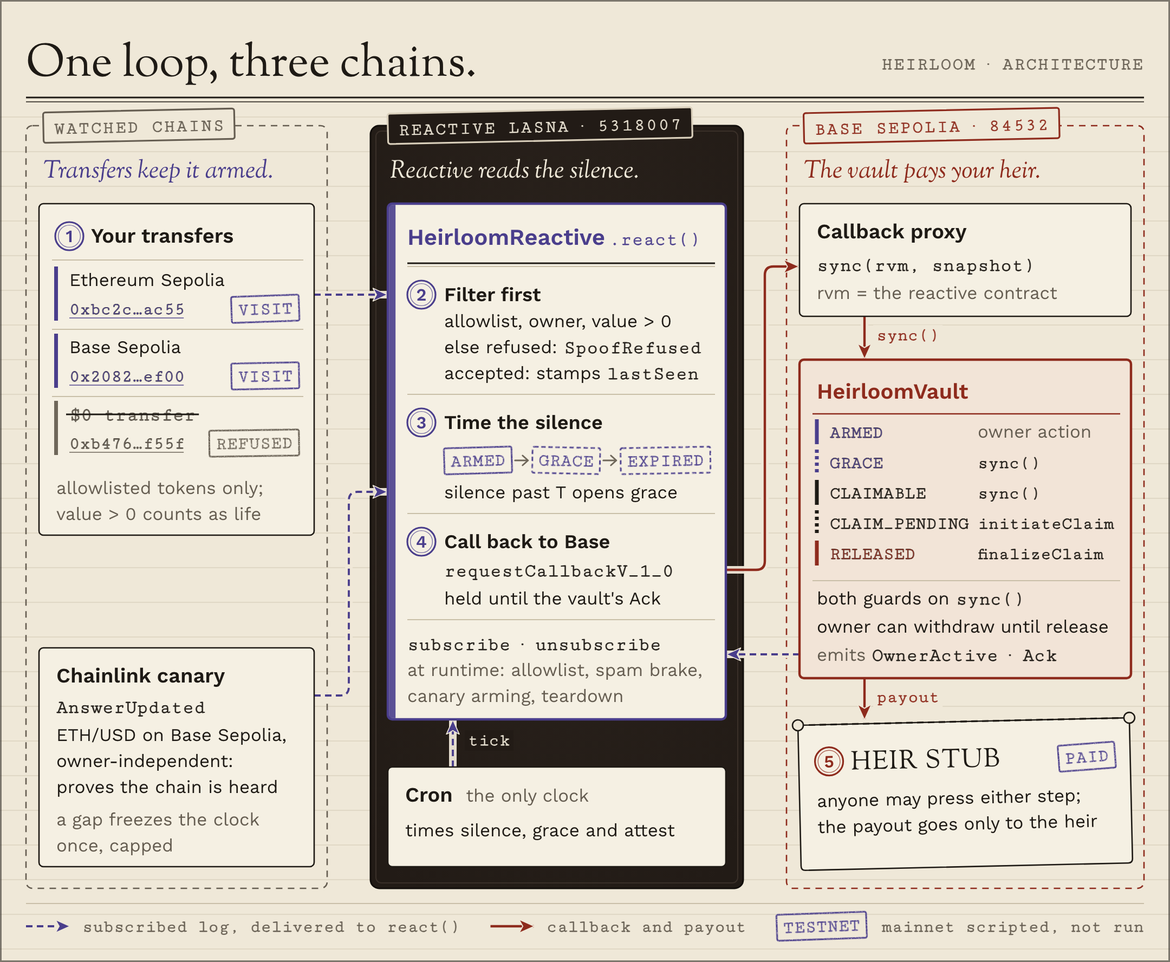
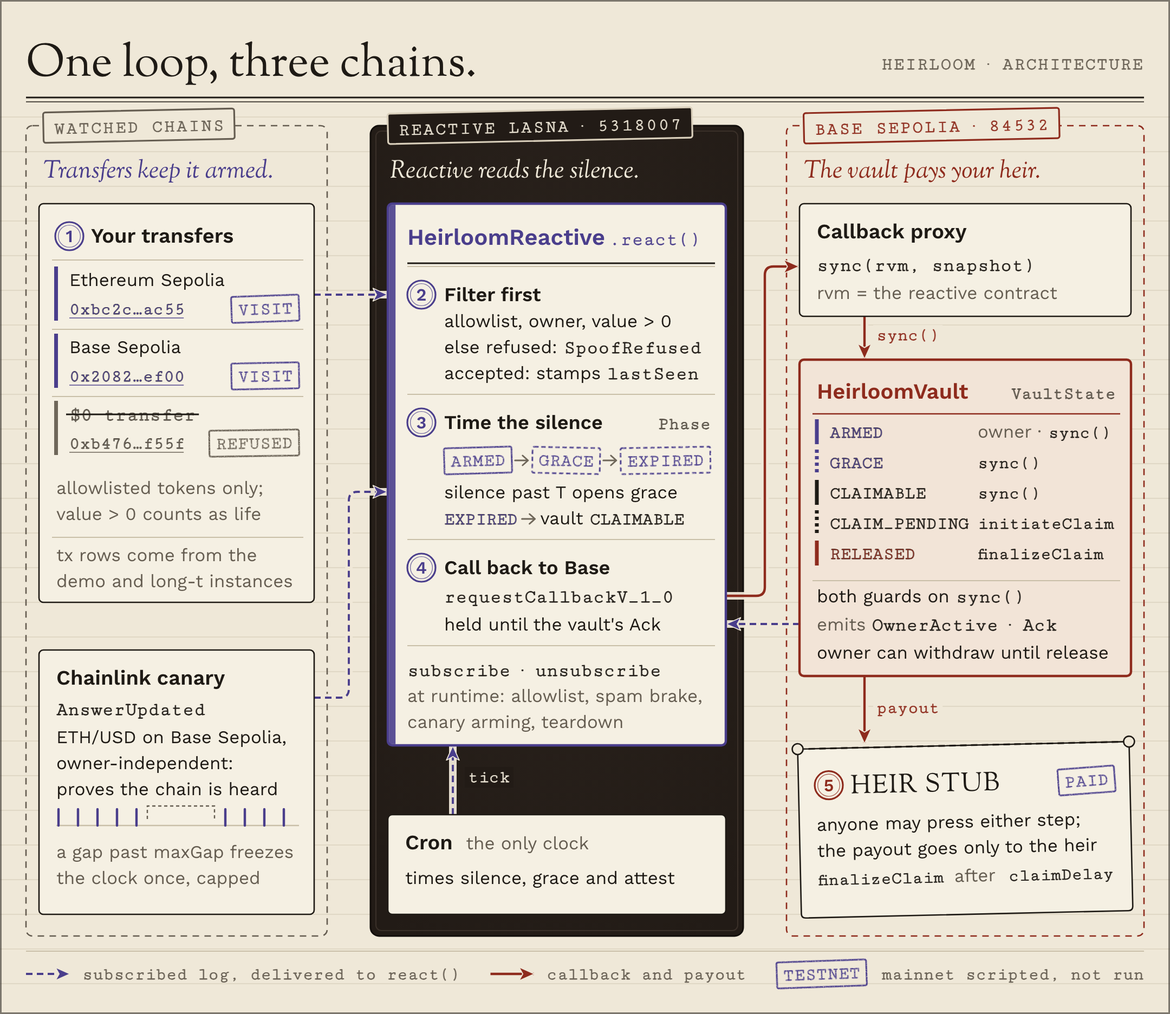
docs(architecture): link the two state vocabularies, aim the Ack arrow at step 4, show claimDelay
From an independent review of the diagram:
- vault ledger ARMED reads "owner · sync()" (sync() also returns the vault
  to ARMED); the <desc> and the README alt say the same
- the dashed return arrow now joins the vault's "emits OwnerActive · Ack"
  line to step 4's "held until the vault's Ack", straight across
- step 3 is labelled Phase and the vault VaultState (the enum names), with
  the mapping EXPIRED -> vault CLAIMABLE
- the heir stub shows "finalizeClaim after claimDelay"
- the transfer rows say they come from the demo and long-t instances; the
  canary card gets a heartbeat strip with one bracketed gap past maxGap
- the Cron tick arrow is longer

PNG re-rendered at 2x (2160x1872) and re-compressed losslessly with
oxipng -o max --strip safe -Z: 775,907 -> 552,112 bytes.

diff --git a/docs/architecture/architecture.html b/docs/architecture/architecture.html
@@ -50,17 +50,17 @@ svg#architecture { width: 100%; min-width: 1080px; height: auto; display: block;
 <body>
 <main>
 <div class="diagram-container">
-<svg id="architecture" viewBox="0 0 1080 888" role="img" aria-labelledby="architecture-title architecture-desc" xmlns="http://www.w3.org/2000/svg">
+<svg id="architecture" viewBox="0 0 1080 936" role="img" aria-labelledby="architecture-title architecture-desc" xmlns="http://www.w3.org/2000/svg">
 <title id="architecture-title">Heirloom architecture: one loop, three chains</title>
-<desc id="architecture-desc">Heirloom's loop across three chains. 1: the owner's allowlisted token transfers on Ethereum Sepolia and Base Sepolia are subscribed logs; a $0 transfer is refused. 2 to 4: on Reactive Lasna, HeirloomReactive.react() filters first (SpoofRefused), stamps lastSeen, times the silence on Cron ticks through ARMED, GRACE and EXPIRED, with a Chainlink canary that can freeze the clock once, and calls back to Base with requestCallbackV_1_0. On Base Sepolia the callback proxy calls sync(rvm, snapshot) on HeirloomVault, whose states run ARMED, GRACE, CLAIMABLE (both by sync), CLAIM_PENDING (initiateClaim) and RELEASED (finalizeClaim); the vault emits OwnerActive and Ack back to react(). 5: the heir stub, where anyone may press either claim step and the payout goes only to the heir.</desc>
+<desc id="architecture-desc">Heirloom's loop across three chains. 1: the owner's allowlisted token transfers on Ethereum Sepolia and Base Sepolia are subscribed logs; a stranger's $0 transfer is refused (example transactions from the demo and long-t instances). 2 to 4: on Reactive Lasna, HeirloomReactive.react() filters first (SpoofRefused), stamps lastSeen, times the silence on Cron ticks through the Phase values ARMED, GRACE and EXPIRED (EXPIRED makes the vault CLAIMABLE), with a Chainlink canary whose gap past maxGap freezes the clock once, and calls back to Base with requestCallbackV_1_0, held until the vault's Ack. On Base Sepolia the callback proxy calls sync(rvm, snapshot) on HeirloomVault, whose VaultState returns to ARMED on an owner action or sync(), moves to GRACE and CLAIMABLE by sync(), CLAIM_PENDING by initiateClaim and RELEASED by finalizeClaim after claimDelay; the vault emits OwnerActive and Ack back to react(). 5: the heir stub, where anyone may press either claim step and the payout goes only to the heir.</desc>
 <defs><marker id="m-log" viewBox="0 0 10 10" refX="9" refY="5" markerWidth="7.5" markerHeight="7.5" orient="auto-start-reverse"><path d="M0 0.8 L9.4 5 L0 9.2 L2.4 5z" fill="#4A3E8C" stroke="#EFE8D8" stroke-width=".6"/></marker><marker id="m-call" viewBox="0 0 10 10" refX="9" refY="5" markerWidth="7" markerHeight="7" orient="auto-start-reverse"><path d="M0 0.8 L9.4 5 L0 9.2 L2.4 5z" fill="#8E2B1D" stroke="#EFE8D8" stroke-width=".6"/></marker><filter id="ink" x="-4%" y="-25%" width="108%" height="150%" color-interpolation-filters="sRGB"><feTurbulence type="fractalNoise" baseFrequency="1.1" numOctaves="2" seed="11" result="n"/><feColorMatrix in="n" type="matrix" values="0 0 0 0 0  0 0 0 0 0  0 0 0 0 0  -3.4 0 0 0 2.85" result="m"/><feComposite in="SourceGraphic" in2="m" operator="in"/></filter><radialGradient id="drawer" cx="50%" cy="38%" r="75%"><stop offset="0" stop-color="#2B231D"/><stop offset="1" stop-color="#221B16"/></radialGradient></defs>
-<rect width="1080" height="888" fill="#EFE8D8"/>
-<g aria-hidden="true"><path d="M0 108 H1080" stroke="#C9BFA8" stroke-width="1" opacity=".38"/><path d="M0 140 H1080" stroke="#C9BFA8" stroke-width="1" opacity=".38"/><path d="M0 172 H1080" stroke="#C9BFA8" stroke-width="1" opacity=".38"/><path d="M0 204 H1080" stroke="#C9BFA8" stroke-width="1" opacity=".38"/><path d="M0 236 H1080" stroke="#C9BFA8" stroke-width="1" opacity=".38"/><path d="M0 268 H1080" stroke="#C9BFA8" stroke-width="1" opacity=".38"/><path d="M0 300 H1080" stroke="#C9BFA8" stroke-width="1" opacity=".38"/><path d="M0 332 H1080" stroke="#C9BFA8" stroke-width="1" opacity=".38"/><path d="M0 364 H1080" stroke="#C9BFA8" stroke-width="1" opacity=".38"/><path d="M0 396 H1080" stroke="#C9BFA8" stroke-width="1" opacity=".38"/><path d="M0 428 H1080" stroke="#C9BFA8" stroke-width="1" opacity=".38"/><path d="M0 460 H1080" stroke="#C9BFA8" stroke-width="1" opacity=".38"/><path d="M0 492 H1080" stroke="#C9BFA8" stroke-width="1" opacity=".38"/><path d="M0 524 H1080" stroke="#C9BFA8" stroke-width="1" opacity=".38"/><path d="M0 556 H1080" stroke="#C9BFA8" stroke-width="1" opacity=".38"/><path d="M0 588 H1080" stroke="#C9BFA8" stroke-width="1" opacity=".38"/><path d="M0 620 H1080" stroke="#C9BFA8" stroke-width="1" opacity=".38"/><path d="M0 652 H1080" stroke="#C9BFA8" stroke-width="1" opacity=".38"/><path d="M0 684 H1080" stroke="#C9BFA8" stroke-width="1" opacity=".38"/><path d="M0 716 H1080" stroke="#C9BFA8" stroke-width="1" opacity=".38"/><path d="M0 748 H1080" stroke="#C9BFA8" stroke-width="1" opacity=".38"/><path d="M0 780 H1080" stroke="#C9BFA8" stroke-width="1" opacity=".38"/><path d="M0 812 H1080" stroke="#C9BFA8" stroke-width="1" opacity=".38"/><path d="M0 844 H1080" stroke="#C9BFA8" stroke-width="1" opacity=".38"/><path d="M0 876 H1080" stroke="#C9BFA8" stroke-width="1" opacity=".38"/></g>
+<rect width="1080" height="936" fill="#EFE8D8"/>
+<g aria-hidden="true"><path d="M0 108 H1080" stroke="#C9BFA8" stroke-width="1" opacity=".38"/><path d="M0 140 H1080" stroke="#C9BFA8" stroke-width="1" opacity=".38"/><path d="M0 172 H1080" stroke="#C9BFA8" stroke-width="1" opacity=".38"/><path d="M0 204 H1080" stroke="#C9BFA8" stroke-width="1" opacity=".38"/><path d="M0 236 H1080" stroke="#C9BFA8" stroke-width="1" opacity=".38"/><path d="M0 268 H1080" stroke="#C9BFA8" stroke-width="1" opacity=".38"/><path d="M0 300 H1080" stroke="#C9BFA8" stroke-width="1" opacity=".38"/><path d="M0 332 H1080" stroke="#C9BFA8" stroke-width="1" opacity=".38"/><path d="M0 364 H1080" stroke="#C9BFA8" stroke-width="1" opacity=".38"/><path d="M0 396 H1080" stroke="#C9BFA8" stroke-width="1" opacity=".38"/><path d="M0 428 H1080" stroke="#C9BFA8" stroke-width="1" opacity=".38"/><path d="M0 460 H1080" stroke="#C9BFA8" stroke-width="1" opacity=".38"/><path d="M0 492 H1080" stroke="#C9BFA8" stroke-width="1" opacity=".38"/><path d="M0 524 H1080" stroke="#C9BFA8" stroke-width="1" opacity=".38"/><path d="M0 556 H1080" stroke="#C9BFA8" stroke-width="1" opacity=".38"/><path d="M0 588 H1080" stroke="#C9BFA8" stroke-width="1" opacity=".38"/><path d="M0 620 H1080" stroke="#C9BFA8" stroke-width="1" opacity=".38"/><path d="M0 652 H1080" stroke="#C9BFA8" stroke-width="1" opacity=".38"/><path d="M0 684 H1080" stroke="#C9BFA8" stroke-width="1" opacity=".38"/><path d="M0 716 H1080" stroke="#C9BFA8" stroke-width="1" opacity=".38"/><path d="M0 748 H1080" stroke="#C9BFA8" stroke-width="1" opacity=".38"/><path d="M0 780 H1080" stroke="#C9BFA8" stroke-width="1" opacity=".38"/><path d="M0 812 H1080" stroke="#C9BFA8" stroke-width="1" opacity=".38"/><path d="M0 844 H1080" stroke="#C9BFA8" stroke-width="1" opacity=".38"/><path d="M0 876 H1080" stroke="#C9BFA8" stroke-width="1" opacity=".38"/><path d="M0 908 H1080" stroke="#C9BFA8" stroke-width="1" opacity=".38"/></g>
 <!-- zones: three chains -->
-<rect x="24" y="116" width="278" height="704" rx="6" fill="none" stroke="#655D51" stroke-width="1.3" stroke-dasharray="6 5"/>
-<rect x="726" y="116" width="330" height="704" rx="6" fill="none" stroke="#8E2B1D" stroke-width="1.3" stroke-dasharray="6 5"/>
-<rect x="342" y="116" width="344" height="704" rx="8" fill="url(#drawer)" stroke="#120E0B" stroke-width="1.5"/>
-<rect x="347" y="121" width="334" height="694" rx="5" fill="none" stroke="#3A3029" stroke-width="1"/>
+<rect x="24" y="116" width="278" height="748" rx="6" fill="none" stroke="#655D51" stroke-width="1.3" stroke-dasharray="6 5"/>
+<rect x="726" y="116" width="330" height="748" rx="6" fill="none" stroke="#8E2B1D" stroke-width="1.3" stroke-dasharray="6 5"/>
+<rect x="342" y="116" width="344" height="748" rx="8" fill="url(#drawer)" stroke="#120E0B" stroke-width="1.5"/>
+<rect x="347" y="121" width="334" height="738" rx="5" fill="none" stroke="#3A3029" stroke-width="1"/>
 <g transform="rotate(-1.2 128.2 116)"><rect x="40" y="102" width="176.4" height="28" rx="2" fill="#EFE8D8" stroke="#655D51" stroke-width="1.6"/>
 <text class="tag" x="50.0" y="122.0" fill="#655D51" stroke="#655D51">WATCHED CHAINS</text>
 </g>
@@ -75,28 +75,28 @@ svg#architecture { width: 100%; min-width: 1080px; height: auto; display: block;
 <text class="cap" x="742.0" y="164.0" fill="#8E2B1D">The vault pays your heir.</text>
 <!-- connectors (drawn before the nodes) -->
 <path d="M290 272.0 H357" fill="none" stroke="#EFE8D8" stroke-width="7" stroke-linejoin="round" opacity=".95"/>
-<path d="M290 642.0 H314.0 Q322.0 642.0 322.0 634.0 V462.0 Q322.0 454.0 330.0 454.0 H357" fill="none" stroke="#EFE8D8" stroke-width="7" stroke-linejoin="round" opacity=".95"/>
-<path d="M418 708 V665" fill="none" stroke="#EFE8D8" stroke-width="7" stroke-linejoin="round" opacity=".95"/>
-<path d="M670 526.0 H698.0 Q706.0 526.0 706.0 518.0 V254.0 Q706.0 246.0 714.0 246.0 H737" fill="none" stroke="#EFE8D8" stroke-width="7" stroke-linejoin="round" opacity=".95"/>
+<path d="M290 644.0 H314.0 Q322.0 644.0 322.0 636.0 V462.0 Q322.0 454.0 330.0 454.0 H357" fill="none" stroke="#EFE8D8" stroke-width="7" stroke-linejoin="round" opacity=".95"/>
+<path d="M418 752 V689" fill="none" stroke="#EFE8D8" stroke-width="7" stroke-linejoin="round" opacity=".95"/>
+<path d="M670 550.0 H698.0 Q706.0 550.0 706.0 542.0 V254.0 Q706.0 246.0 714.0 246.0 H737" fill="none" stroke="#EFE8D8" stroke-width="7" stroke-linejoin="round" opacity=".95"/>
 <path d="M798 292 V331" fill="none" stroke="#EFE8D8" stroke-width="7" stroke-linejoin="round" opacity=".95"/>
-<path d="M738 604.0 H671" fill="none" stroke="#EFE8D8" stroke-width="7" stroke-linejoin="round" opacity=".95"/>
-<path d="M798 626 V664" fill="none" stroke="#EFE8D8" stroke-width="7" stroke-linejoin="round" opacity=".95"/>
+<path d="M738 576.0 H671" fill="none" stroke="#EFE8D8" stroke-width="7" stroke-linejoin="round" opacity=".95"/>
+<path d="M798 624 V686" fill="none" stroke="#EFE8D8" stroke-width="7" stroke-linejoin="round" opacity=".95"/>
 <path d="M290 272.0 H357" fill="none" stroke="#4A3E8C" stroke-width="1.9" stroke-dasharray="6 4" marker-end="url(#m-log)"/>
-<path d="M290 642.0 H314.0 Q322.0 642.0 322.0 634.0 V462.0 Q322.0 454.0 330.0 454.0 H357" fill="none" stroke="#4A3E8C" stroke-width="1.9" stroke-dasharray="6 4" marker-end="url(#m-log)"/>
-<path d="M418 708 V665" fill="none" stroke="#4A3E8C" stroke-width="1.9" stroke-dasharray="6 4" marker-end="url(#m-log)"/>
-<path d="M670 526.0 H698.0 Q706.0 526.0 706.0 518.0 V254.0 Q706.0 246.0 714.0 246.0 H737" fill="none" stroke="#8E2B1D" stroke-width="2.2" marker-end="url(#m-call)"/>
+<path d="M290 644.0 H314.0 Q322.0 644.0 322.0 636.0 V462.0 Q322.0 454.0 330.0 454.0 H357" fill="none" stroke="#4A3E8C" stroke-width="1.9" stroke-dasharray="6 4" marker-end="url(#m-log)"/>
+<path d="M418 752 V689" fill="none" stroke="#4A3E8C" stroke-width="1.9" stroke-dasharray="6 4" marker-end="url(#m-log)"/>
+<path d="M670 550.0 H698.0 Q706.0 550.0 706.0 542.0 V254.0 Q706.0 246.0 714.0 246.0 H737" fill="none" stroke="#8E2B1D" stroke-width="2.2" marker-end="url(#m-call)"/>
 <path d="M798 292 V331" fill="none" stroke="#8E2B1D" stroke-width="2.2" marker-end="url(#m-call)"/>
-<path d="M738 604.0 H671" fill="none" stroke="#4A3E8C" stroke-width="1.9" stroke-dasharray="6 4" marker-end="url(#m-log)"/>
-<path d="M798 626 V664" fill="none" stroke="#8E2B1D" stroke-width="2.2" marker-end="url(#m-call)"/>
+<path d="M738 576.0 H671" fill="none" stroke="#4A3E8C" stroke-width="1.9" stroke-dasharray="6 4" marker-end="url(#m-log)"/>
+<path d="M798 624 V686" fill="none" stroke="#8E2B1D" stroke-width="2.2" marker-end="url(#m-call)"/>
 <rect x="806.0" y="300.0" width="64.1" height="19" fill="#EFE8D8"/>
 <text class="lab" x="809.0" y="314.0" fill="#8E2B1D" stroke="#8E2B1D">sync()</text>
-<rect x="806.0" y="634.0" width="64.1" height="19" fill="#EFE8D8"/>
-<text class="lab" x="809.0" y="648.0" fill="#8E2B1D" stroke="#8E2B1D">payout</text>
-<rect x="429.0" y="674.0" width="44.8" height="19" fill="#221B16"/>
-<text class="lab" x="432.0" y="688.0" fill="#EFE8D8" stroke="#EFE8D8">tick</text>
+<rect x="806.0" y="644.0" width="64.1" height="19" fill="#EFE8D8"/>
+<text class="lab" x="809.0" y="658.0" fill="#8E2B1D" stroke="#8E2B1D">payout</text>
+<rect x="429.0" y="708.0" width="44.8" height="19" fill="#221B16"/>
+<text class="lab" x="432.0" y="722.0" fill="#EFE8D8" stroke="#EFE8D8">tick</text>
 <!-- nodes -->
-<rect x="358" y="188" width="312" height="476" rx="4" fill="#F5F0E3" stroke="#4A3E8C" stroke-width="2.2"/>
-<rect x="359.1" y="189.1" width="6" height="473.8" fill="#4A3E8C" opacity=".9"/>
+<rect x="358" y="188" width="312" height="500" rx="4" fill="#F5F0E3" stroke="#4A3E8C" stroke-width="2.2"/>
+<rect x="359.1" y="189.1" width="6" height="497.8" fill="#4A3E8C" opacity=".9"/>
 <text class="ti rc" x="376.0" y="226.0" fill="#1E1A15">HeirloomReactive</text>
 <text class="c v" x="562.1" y="226.0" fill="#1E1A15">.react()</text>
 <path d="M376 243.0 H660" stroke="#1E1A15" stroke-width="1.4"/>
@@ -113,6 +113,7 @@ svg#architecture { width: 100%; min-width: 1080px; height: auto; display: block;
 <circle cx="389" cy="390" r="13" fill="#F5F0E3" stroke="#4A3E8C" stroke-width="1.6"/><circle cx="389" cy="390" r="10.2" fill="none" stroke="#4A3E8C" stroke-width=".7" opacity=".7"/>
 <text class="bd" x="384.3" y="395.6" fill="#4A3E8C">3</text>
 <text class="st" x="410.0" y="396.0" fill="#1E1A15">Time the silence</text>
+<text class="c s2" x="607.6" y="396.0" fill="#655D51" stroke="#655D51">Phase</text>
 <g transform="rotate(-1.6 441.2 424.5)" filter="url(#ink)"><rect x="410.0" y="413.0" width="62.4" height="24" rx="1.5" fill="none" stroke="#4A3E8C" stroke-width="1.5"/>
 <text class="stp" x="416.0" y="430.0" fill="#4A3E8C" stroke="#4A3E8C">ARMED</text>
 </g>
@@ -125,21 +126,25 @@ svg#architecture { width: 100%; min-width: 1080px; height: auto; display: block;
 <text class="stp" x="578.9" y="430.0" fill="#4A3E8C" stroke="#4A3E8C">EXPIRED</text>
 </g>
 <text class="b" x="410.0" y="460.0" fill="#1E1A15">silence past T opens grace</text>
-<path d="M376 474.0 H660" stroke="#C9BFA8" stroke-width="1"/>
-<circle cx="389" cy="500" r="13" fill="#F5F0E3" stroke="#4A3E8C" stroke-width="1.6"/><circle cx="389" cy="500" r="10.2" fill="none" stroke="#4A3E8C" stroke-width=".7" opacity=".7"/>
-<text class="bd" x="383.9" y="505.6" fill="#4A3E8C">4</text>
-<text class="st" x="410.0" y="506.0" fill="#1E1A15">Call back to Base</text>
-<text class="c" x="410.0" y="532.0" fill="#1E1A15">requestCallbackV_1_0</text>
-<text class="b" x="410.0" y="558.0" fill="#1E1A15">held until the vault's Ack</text>
-<path d="M376 572.0 H660" stroke="#C9BFA8" stroke-width="1"/>
-<text class="c" x="376.0" y="600.0" fill="#1E1A15">subscribe · unsubscribe</text>
-<text class="b m" x="376.0" y="624.0" fill="#1E1A15">at runtime: allowlist, spam brake,</text>
-<text class="b m" x="376.0" y="648.0" fill="#1E1A15">canary arming, teardown</text>
-<rect x="358" y="708" width="312" height="92" rx="4" fill="#F5F0E3" stroke="#1E1A15" stroke-width="1.3"/>
-<text class="ti" x="374.0" y="740.0" fill="#1E1A15">Cron</text>
-<text class="b m" x="430.1" y="740.0" fill="#1E1A15">the only clock</text>
-<text class="b" x="374.0" y="772.0" fill="#1E1A15">times silence, grace and attest</text>
-<rect x="36" y="188" width="254" height="306" rx="4" fill="#F5F0E3" stroke="#1E1A15" stroke-width="1.3"/>
+<text class="c s2" x="410.0" y="484.0" fill="#4A3E8C" stroke="#4A3E8C">EXPIRED</text>
+<path d="M481.8 479.0 H493.8 M488.8 474.5 L493.8 479.0 L488.8 483.5" fill="none" stroke="#6F675A" stroke-width="1.5" stroke-linecap="round" stroke-linejoin="round"/>
+<text class="b" x="498.8" y="484.0" fill="#1E1A15">vault </text>
+<text class="c s2" x="544.5" y="484.0" fill="#1E1A15">CLAIMABLE</text>
+<path d="M376 498.0 H660" stroke="#C9BFA8" stroke-width="1"/>
+<circle cx="389" cy="524" r="13" fill="#F5F0E3" stroke="#4A3E8C" stroke-width="1.6"/><circle cx="389" cy="524" r="10.2" fill="none" stroke="#4A3E8C" stroke-width=".7" opacity=".7"/>
+<text class="bd" x="383.9" y="529.6" fill="#4A3E8C">4</text>
+<text class="st" x="410.0" y="530.0" fill="#1E1A15">Call back to Base</text>
+<text class="c" x="410.0" y="556.0" fill="#1E1A15">requestCallbackV_1_0</text>
+<text class="b" x="410.0" y="582.0" fill="#1E1A15">held until the vault's Ack</text>
+<path d="M376 596.0 H660" stroke="#C9BFA8" stroke-width="1"/>
+<text class="c" x="376.0" y="624.0" fill="#1E1A15">subscribe · unsubscribe</text>
+<text class="b m" x="376.0" y="648.0" fill="#1E1A15">at runtime: allowlist, spam brake,</text>
+<text class="b m" x="376.0" y="672.0" fill="#1E1A15">canary arming, teardown</text>
+<rect x="358" y="752" width="312" height="92" rx="4" fill="#F5F0E3" stroke="#1E1A15" stroke-width="1.3"/>
+<text class="ti" x="374.0" y="784.0" fill="#1E1A15">Cron</text>
+<text class="b m" x="430.1" y="784.0" fill="#1E1A15">the only clock</text>
+<text class="b" x="374.0" y="816.0" fill="#1E1A15">times silence, grace and attest</text>
+<rect x="36" y="188" width="254" height="368" rx="4" fill="#F5F0E3" stroke="#1E1A15" stroke-width="1.3"/>
 <circle cx="64" cy="218" r="13" fill="#F5F0E3" stroke="#4A3E8C" stroke-width="1.6"/><circle cx="64" cy="218" r="10.2" fill="none" stroke="#4A3E8C" stroke-width=".7" opacity=".7"/>
 <text class="bd" x="60.7" y="223.6" fill="#4A3E8C">1</text>
 <text class="ti" x="84.0" y="224.0" fill="#1E1A15">Your transfers</text>
@@ -170,24 +175,40 @@ svg#architecture { width: 100%; min-width: 1080px; height: auto; display: block;
 </g>
 <text class="b m" x="52.0" y="456.0" fill="#1E1A15">allowlisted tokens only;</text>
 <text class="b m" x="52.0" y="480.0" fill="#1E1A15">value &gt; 0 counts as life</text>
-<rect x="36" y="598" width="254" height="202" rx="4" fill="#F5F0E3" stroke="#1E1A15" stroke-width="1.3"/>
-<text class="ti" x="52.0" y="630.0" fill="#1E1A15">Chainlink canary</text>
-<text class="c" x="52.0" y="658.0" fill="#1E1A15">AnswerUpdated</text>
-<text class="b" x="52.0" y="684.0" fill="#1E1A15">ETH/USD on Base Sepolia,</text>
-<text class="b" x="52.0" y="708.0" fill="#1E1A15">owner-independent:</text>
-<text class="b" x="52.0" y="732.0" fill="#1E1A15">proves the chain is heard</text>
-<text class="b m" x="52.0" y="762.0" fill="#1E1A15">a gap freezes the clock</text>
-<text class="b m" x="52.0" y="786.0" fill="#1E1A15">once, capped</text>
+<path d="M48 496.0 H280" stroke="#C9BFA8" stroke-width="1"/>
+<text class="b m" x="52.0" y="518.0" fill="#1E1A15">tx rows come from the</text>
+<text class="b m" x="52.0" y="542.0" fill="#1E1A15">demo and long-t instances</text>
+<rect x="36" y="600" width="254" height="244" rx="4" fill="#F5F0E3" stroke="#1E1A15" stroke-width="1.3"/>
+<text class="ti" x="52.0" y="632.0" fill="#1E1A15">Chainlink canary</text>
+<text class="c" x="52.0" y="660.0" fill="#1E1A15">AnswerUpdated</text>
+<text class="b" x="52.0" y="686.0" fill="#1E1A15">ETH/USD on Base Sepolia,</text>
+<text class="b" x="52.0" y="710.0" fill="#1E1A15">owner-independent:</text>
+<text class="b" x="52.0" y="734.0" fill="#1E1A15">proves the chain is heard</text>
+<path d="M52.0 762.0 H276.0" stroke="#C9BFA8" stroke-width="1.2"/>
+<path d="M54.0 747.0 V762.0" stroke="#4A3E8C" stroke-width="2.2" stroke-linecap="round"/>
+<path d="M72.0 747.0 V762.0" stroke="#4A3E8C" stroke-width="2.2" stroke-linecap="round"/>
+<path d="M90.0 747.0 V762.0" stroke="#4A3E8C" stroke-width="2.2" stroke-linecap="round"/>
+<path d="M108.0 747.0 V762.0" stroke="#4A3E8C" stroke-width="2.2" stroke-linecap="round"/>
+<path d="M126.0 747.0 V762.0" stroke="#4A3E8C" stroke-width="2.2" stroke-linecap="round"/>
+<path d="M208.0 747.0 V762.0" stroke="#4A3E8C" stroke-width="2.2" stroke-linecap="round"/>
+<path d="M226.0 747.0 V762.0" stroke="#4A3E8C" stroke-width="2.2" stroke-linecap="round"/>
+<path d="M244.0 747.0 V762.0" stroke="#4A3E8C" stroke-width="2.2" stroke-linecap="round"/>
+<path d="M262.0 747.0 V762.0" stroke="#4A3E8C" stroke-width="2.2" stroke-linecap="round"/>
+<path d="M136.0 756.0 V744.0 H198.0 V756.0" fill="none" stroke="#655D51" stroke-width="1.2" stroke-dasharray="3 2.5"/>
+<text class="b m" x="52.0" y="792.0" fill="#1E1A15">a gap past maxGap freezes</text>
+<text class="b m" x="52.0" y="816.0" fill="#1E1A15">the clock once, capped</text>
 <rect x="738" y="188" width="306" height="104" rx="4" fill="#F5F0E3" stroke="#1E1A15" stroke-width="1.3"/>
 <text class="ti" x="754.0" y="220.0" fill="#1E1A15">Callback proxy</text>
 <text class="c" x="754.0" y="250.0" fill="#1E1A15">sync(rvm, snapshot)</text>
 <text class="b m" x="754.0" y="276.0" fill="#1E1A15">rvm = the reactive contract</text>
-<rect x="738" y="332" width="306" height="294" rx="4" fill="#F2E4D7" stroke="#8E2B1D" stroke-width="2.2"/>
+<rect x="738" y="332" width="306" height="292" rx="4" fill="#F2E4D7" stroke="#8E2B1D" stroke-width="2.2"/>
 <text class="ti vt" x="754.0" y="368.0" fill="#1E1A15">HeirloomVault</text>
+<text class="c s2" x="933.1" y="368.0" fill="#655D51" stroke="#655D51">VaultState</text>
 <path d="M750 382.0 H1034" stroke="#8E2B1D" stroke-width="1.2"/>
 <path d="M754.0 387.0 V410.0" stroke="#4A3E8C" stroke-width="3.5"/>
 <text class="c s" x="766.0" y="404.0" fill="#4A3E8C" stroke="#4A3E8C">ARMED</text>
-<text class="b m" x="902.5" y="404.0" fill="#1E1A15">owner action</text>
+<text class="b m" x="902.5" y="404.0" fill="#1E1A15">owner · </text>
+<text class="c s2" x="967.7" y="404.0" fill="#1E1A15">sync()</text>
 <path d="M754.0 415.0 V438.0" stroke="#4A3E8C" stroke-width="3.5" stroke-dasharray="3 3"/>
 <text class="c s" x="766.0" y="432.0" fill="#4A3E8C" stroke="#4A3E8C">GRACE</text>
 <text class="c s2" x="902.5" y="432.0" fill="#1E1A15">sync()</text>
@@ -201,40 +222,43 @@ svg#architecture { width: 100%; min-width: 1080px; height: auto; display: block;
 <text class="c s" x="766.0" y="516.0" fill="#8E2B1D" stroke="#8E2B1D">RELEASED</text>
 <text class="c s2" x="902.5" y="516.0" fill="#1E1A15">finalizeClaim</text>
 <path d="M750 536.0 H1034" stroke="#C9BFA8" stroke-width="1"/>
-<text class="b" x="754.0" y="558.0" fill="#1E1A15">both guards on </text>
-<text class="c" x="882.4" y="558.0" fill="#1E1A15">sync()</text>
-<text class="b" x="754.0" y="584.0" fill="#1E1A15">owner can withdraw until release</text>
-<text class="b m" x="754.0" y="610.0" fill="#1E1A15">emits </text>
-<text class="c" x="804.9" y="610.0" fill="#1E1A15">OwnerActive · Ack</text>
-<g transform="rotate(-1.3 891.0 733.0)">
-<path d="M738 666 V796 Q738 800 742 800 H1040 Q1044 800 1044 796 V666 Z" fill="#F5F0E3" stroke="#1E1A15" stroke-width="1.3"/>
-<path d="M748 666 H1034" stroke="#1E1A15" stroke-width="1.6" stroke-dasharray="6 4"/>
-<circle cx="738" cy="666" r="5" fill="#EFE8D8" stroke="#1E1A15" stroke-width="1.3"/>
-<circle cx="1044" cy="666" r="5" fill="#EFE8D8" stroke="#1E1A15" stroke-width="1.3"/>
-<circle cx="766" cy="700" r="13" fill="#F5F0E3" stroke="#8E2B1D" stroke-width="1.6"/><circle cx="766" cy="700" r="10.2" fill="none" stroke="#8E2B1D" stroke-width=".7" opacity=".7"/>
-<text class="bd" x="761.3" y="705.6" fill="#8E2B1D">5</text>
-<text class="stub" x="786.0" y="708.0" fill="#1E1A15">HEIR STUB</text>
-<g transform="rotate(-3 1003.9 700.5)" filter="url(#ink)"><rect x="977.8" y="689.0" width="52.2" height="24" rx="1.5" fill="none" stroke="#4A3E8C" stroke-width="1.5"/>
-<text class="stp" x="983.8" y="706.0" fill="#4A3E8C" stroke="#4A3E8C">PAID</text>
+<text class="b" x="754.0" y="556.0" fill="#1E1A15">both guards on </text>
+<text class="c" x="882.4" y="556.0" fill="#1E1A15">sync()</text>
+<text class="b m" x="754.0" y="582.0" fill="#1E1A15">emits </text>
+<text class="c" x="804.9" y="582.0" fill="#1E1A15">OwnerActive · Ack</text>
+<text class="b" x="754.0" y="608.0" fill="#1E1A15">owner can withdraw until release</text>
+<g transform="rotate(-1.3 891.0 766.0)">
+<path d="M738 688 V840 Q738 844 742 844 H1040 Q1044 844 1044 840 V688 Z" fill="#F5F0E3" stroke="#1E1A15" stroke-width="1.3"/>
+<path d="M748 688 H1034" stroke="#1E1A15" stroke-width="1.6" stroke-dasharray="6 4"/>
+<circle cx="738" cy="688" r="5" fill="#EFE8D8" stroke="#1E1A15" stroke-width="1.3"/>
+<circle cx="1044" cy="688" r="5" fill="#EFE8D8" stroke="#1E1A15" stroke-width="1.3"/>
+<circle cx="766" cy="722" r="13" fill="#F5F0E3" stroke="#8E2B1D" stroke-width="1.6"/><circle cx="766" cy="722" r="10.2" fill="none" stroke="#8E2B1D" stroke-width=".7" opacity=".7"/>
+<text class="bd" x="761.3" y="727.6" fill="#8E2B1D">5</text>
+<text class="stub" x="786.0" y="730.0" fill="#1E1A15">HEIR STUB</text>
+<g transform="rotate(-3 1003.9 722.5)" filter="url(#ink)"><rect x="977.8" y="711.0" width="52.2" height="24" rx="1.5" fill="none" stroke="#4A3E8C" stroke-width="1.5"/>
+<text class="stp" x="983.8" y="728.0" fill="#4A3E8C" stroke="#4A3E8C">PAID</text>
 </g>
-<text class="b" x="754.0" y="742.0" fill="#1E1A15">anyone may press either step;</text>
-<text class="b" x="754.0" y="766.0" fill="#1E1A15">the payout goes only to the heir</text>
+<text class="b" x="754.0" y="764.0" fill="#1E1A15">anyone may press either step;</text>
+<text class="b" x="754.0" y="788.0" fill="#1E1A15">the payout goes only to the heir</text>
+<text class="c s2" x="754.0" y="814.0" fill="#1E1A15">finalizeClaim</text>
+<text class="b m" x="879.9" y="814.0" fill="#1E1A15"> after </text>
+<text class="c s2" x="930.2" y="814.0" fill="#1E1A15">claimDelay</text>
 </g>
 <!-- title and key -->
 <text class="h1" x="24.0" y="70.0" fill="#1E1A15">One loop, three chains.</text>
 <text class="corner" x="814.0" y="64.0" fill="#655D51" stroke="#655D51">HEIRLOOM · ARCHITECTURE</text>
 <path d="M24 90 H1056" stroke="#1E1A15" stroke-width="1.6"/>
 <path d="M24 94 H1056" stroke="#1E1A15" stroke-width=".7"/>
-<path d="M24 834 H1056" stroke="#C9BFA8" stroke-width="1"/>
-<path d="M24 855 H64" stroke="#4A3E8C" stroke-width="1.9" stroke-dasharray="6 4" marker-end="url(#m-log)"/>
-<text class="key" x="76.0" y="860.0" fill="#655D51" stroke="#655D51">subscribed log, delivered to react()</text>
-<path d="M452.75 855 H492.75" stroke="#8E2B1D" stroke-width="2.2" marker-end="url(#m-call)"/>
-<text class="key" x="504.8" y="860.0" fill="#655D51" stroke="#655D51">callback and payout</text>
-<text class="key" x="813.8" y="860.0" fill="#655D51" stroke="#655D51">mainnet scripted, not run</text>
-<g transform="rotate(-2 758.4 854.5)" filter="url(#ink)"><rect x="717.0" y="843.0" width="82.8" height="24" rx="1.5" fill="none" stroke="#4A3E8C" stroke-width="1.5"/>
-<text class="stp" x="723.0" y="860.0" fill="#4A3E8C" stroke="#4A3E8C">TESTNET</text>
+<path d="M24 878 H1056" stroke="#C9BFA8" stroke-width="1"/>
+<path d="M24 899 H64" stroke="#4A3E8C" stroke-width="1.9" stroke-dasharray="6 4" marker-end="url(#m-log)"/>
+<text class="key" x="76.0" y="904.0" fill="#655D51" stroke="#655D51">subscribed log, delivered to react()</text>
+<path d="M452.75 899 H492.75" stroke="#8E2B1D" stroke-width="2.2" marker-end="url(#m-call)"/>
+<text class="key" x="504.8" y="904.0" fill="#655D51" stroke="#655D51">callback and payout</text>
+<text class="key" x="813.8" y="904.0" fill="#655D51" stroke="#655D51">mainnet scripted, not run</text>
+<g transform="rotate(-2 758.4 898.5)" filter="url(#ink)"><rect x="717.0" y="887.0" width="82.8" height="24" rx="1.5" fill="none" stroke="#4A3E8C" stroke-width="1.5"/>
+<text class="stp" x="723.0" y="904.0" fill="#4A3E8C" stroke="#4A3E8C">TESTNET</text>
 </g>
-<rect x=".75" y=".75" width="1078.5" height="886.5" fill="none" stroke="#1E1A15" stroke-width="1.5" opacity=".55"/>
+<rect x=".75" y=".75" width="1078.5" height="934.5" fill="none" stroke="#1E1A15" stroke-width="1.5" opacity=".55"/>
 </svg>
 </div>
 </main>

diff --git a/README.md b/README.md
@@ -60,7 +60,7 @@ States: `ARMED → GRACE → CLAIMABLE → CLAIM_PENDING → RELEASED`. Any watc
 | Scripts | TypeScript with viem, run with `tsx` |
 | Status page | static `status/` (HTML + one ES module), read-only live chain reads plus the heir's claim panel |
 
-<p align="center"><img src="docs/architecture.png" alt="Heirloom architecture, one loop across three chains. 1: the owner's allowlisted token transfers on Ethereum Sepolia and Base Sepolia reach the reactive contract as subscribed logs; a stranger's $0 transfer is refused. On Reactive Lasna, HeirloomReactive.react() 2: filters first (SpoofRefused) and stamps lastSeen, 3: times the silence on Cron ticks through ARMED, GRACE and EXPIRED, with a Chainlink canary on Base Sepolia that can freeze the clock once, and 4: calls back to Base with requestCallbackV_1_0. On Base Sepolia the callback proxy calls sync(rvm, snapshot) on HeirloomVault, which moves ARMED, GRACE and CLAIMABLE by sync(), CLAIM_PENDING by initiateClaim and RELEASED by finalizeClaim, and emits OwnerActive and Ack back to react(). 5: anyone may press either claim step and the payout goes only to the heir." width="100%"></p>
+<p align="center"><img src="docs/architecture.png" alt="Heirloom architecture, one loop across three chains. 1: the owner's allowlisted token transfers on Ethereum Sepolia and Base Sepolia reach the reactive contract as subscribed logs; a stranger's $0 transfer is refused (example transactions from the demo and long-t instances). On Reactive Lasna, HeirloomReactive.react() 2: filters first (SpoofRefused) and stamps lastSeen, 3: times the silence on Cron ticks through the Phase values ARMED, GRACE and EXPIRED (EXPIRED makes the vault CLAIMABLE), with a Chainlink canary on Base Sepolia whose gap past maxGap freezes the clock once, and 4: calls back to Base with requestCallbackV_1_0, held until the vault's Ack. On Base Sepolia the callback proxy calls sync(rvm, snapshot) on HeirloomVault, whose VaultState returns to ARMED on an owner action or sync(), moves to GRACE and CLAIMABLE by sync(), CLAIM_PENDING by initiateClaim and RELEASED by finalizeClaim after claimDelay; the vault emits OwnerActive and Ack back to react(). 5: anyone may press either claim step and the payout goes only to the heir." width="100%"></p>
 
 The diagram source is [`docs/architecture/architecture.html`](docs/architecture/architecture.html).
 
